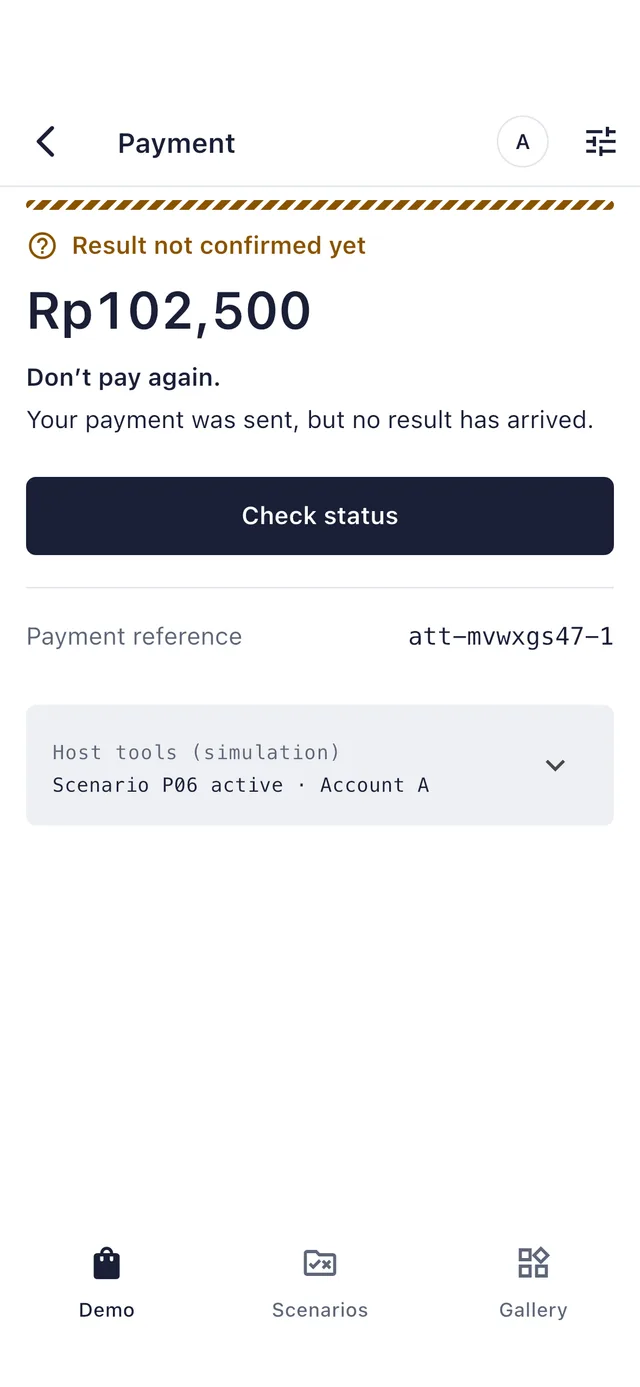
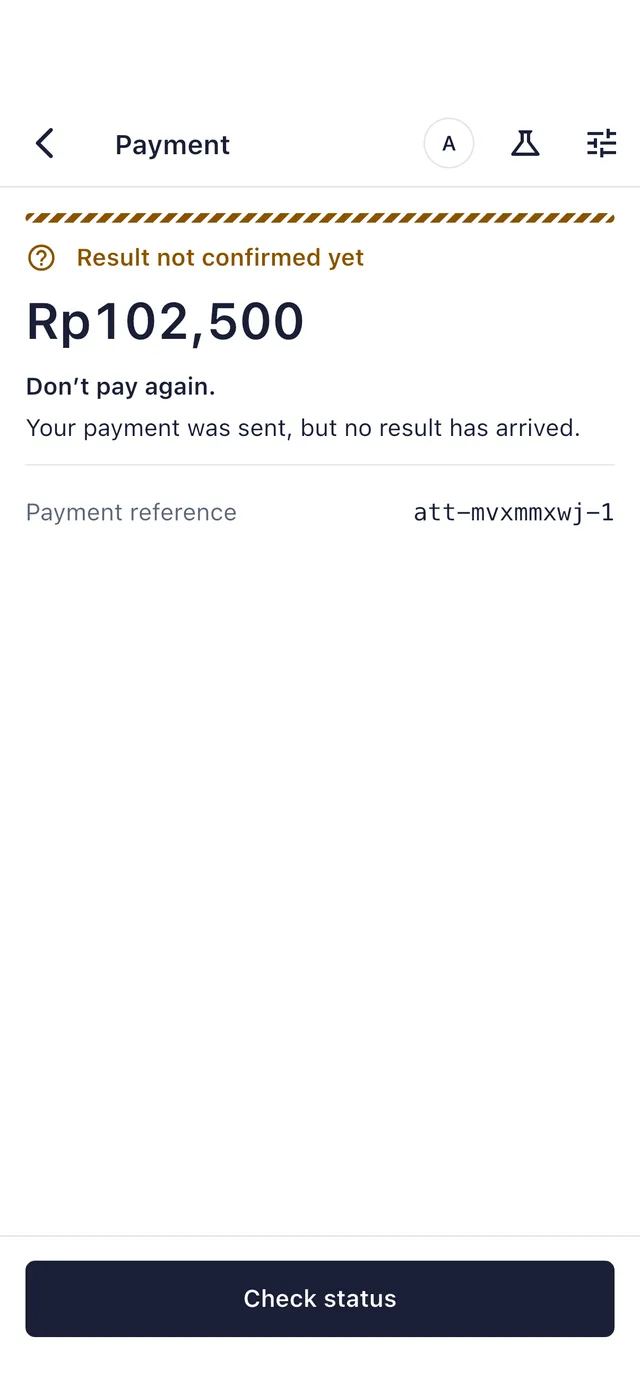
docs(screens): P6 payment-path captures, SE payment set and iPad checkout
Recaptured on iPhone 16 Pro (light, dark, light_200): kyc_intro,
kyc_review, methods_unavailable, checkout, requote, authorize,
status_unknown, status_pending, status_va_pending, receipt; kit
refined_*. New iPhone SE 200% id/en: checkout, authorize,
status_pending, receipt (history refreshed). iPad mini checkout.
The requote capture reads the text scale from the app settings.
Changelog snippet passes the banner's required tone.

diff --git a/example/integration_test/screenshots_test.dart b/example/integration_test/screenshots_test.dart
@@ -73,10 +73,7 @@ void main() {
         c.reviewOrder();
         await c.confirm();
         await pumpUntil(tester, () => c.quote?.revision == 2 && !c.confirming);
-        if (MediaQuery.textScalerOf(
-              tester.element(find.byType(PaymentConfirmation)),
-            ).scale(1) >
-            1) {
+        if ((app.settings.textScale ?? 1) > 1) {
           await settle(tester);
           await Scrollable.ensureVisible(
             tester.element(find.byType(PaymentCheckbox)),

diff --git a/website/src/content/docs/reference/changelog.md b/website/src/content/docs/reference/changelog.md
@@ -11,9 +11,9 @@ Copied verbatim from `CHANGELOG.md`. Version 0.1.0 is unreleased and not publish
 
   ```dart
   // Before: a Column hands the status view an unbounded height
-  Column(children: [PaymentBanner(title: 'Cancellation requested'), PaymentStatusView(attempt: a, onAction: act)])
+  Column(children: [PaymentBanner(tone: StatusTone.info, title: 'Cancellation requested'), PaymentStatusView(attempt: a, onAction: act)])
   // After: the banner scrolls with the status and the action is pinned
-  PaymentStatusView(header: PaymentBanner(title: 'Cancellation requested'), attempt: a, onAction: act)
+  PaymentStatusView(header: PaymentBanner(tone: StatusTone.info, title: 'Cancellation requested'), attempt: a, onAction: act)
   ```
 
 - **Example flow (D62, #49, #58, #64).** From KYC through the receipt the app's tab bar is hidden, and back leaves the flow. KYC intro and status, confirm, authorize, payment status and receipt fill the screen with their pinned action. The receipt's "Selesai" is the primary, with a quiet "Lihat detail" under it (#49-1). The checkout bar holds only "Tinjau pembayaran", busy while the total updates, so the total isn't repeated a third time and the bar is compact at 200% (#64, #58). Host tools move from the end of each step to a "Demo tools" sheet in the app bar. Cancel, back and close are quiet everywhere, including the gallery's sheet Close buttons (#49-3).

diff --git a/CHANGELOG.md b/CHANGELOG.md
@@ -4,9 +4,9 @@
 
   ```dart
   // Before: a Column hands the status view an unbounded height
-  Column(children: [PaymentBanner(title: 'Cancellation requested'), PaymentStatusView(attempt: a, onAction: act)])
+  Column(children: [PaymentBanner(tone: StatusTone.info, title: 'Cancellation requested'), PaymentStatusView(attempt: a, onAction: act)])
   // After: the banner scrolls with the status and the action is pinned
-  PaymentStatusView(header: PaymentBanner(title: 'Cancellation requested'), attempt: a, onAction: act)
+  PaymentStatusView(header: PaymentBanner(tone: StatusTone.info, title: 'Cancellation requested'), attempt: a, onAction: act)
   ```
 
 - **Example flow (D62, #49, #58, #64).** From KYC through the receipt the app's tab bar is hidden, and back leaves the flow. KYC intro and status, confirm, authorize, payment status and receipt fill the screen with their pinned action. The receipt's "Selesai" is the primary, with a quiet "Lihat detail" under it (#49-1). The checkout bar holds only "Tinjau pembayaran", busy while the total updates, so the total isn't repeated a third time and the bar is compact at 200% (#64, #58). Host tools move from the end of each step to a "Demo tools" sheet in the app bar. Cancel, back and close are quiet everywhere, including the gallery's sheet Close buttons (#49-3).
